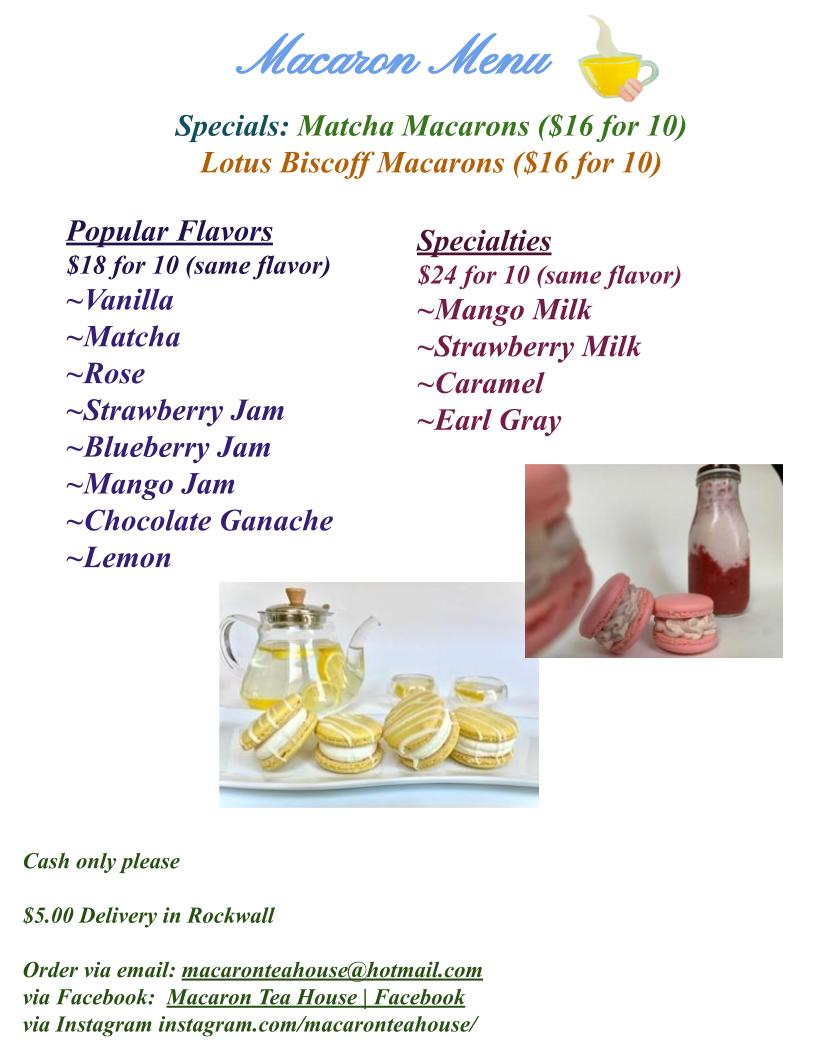
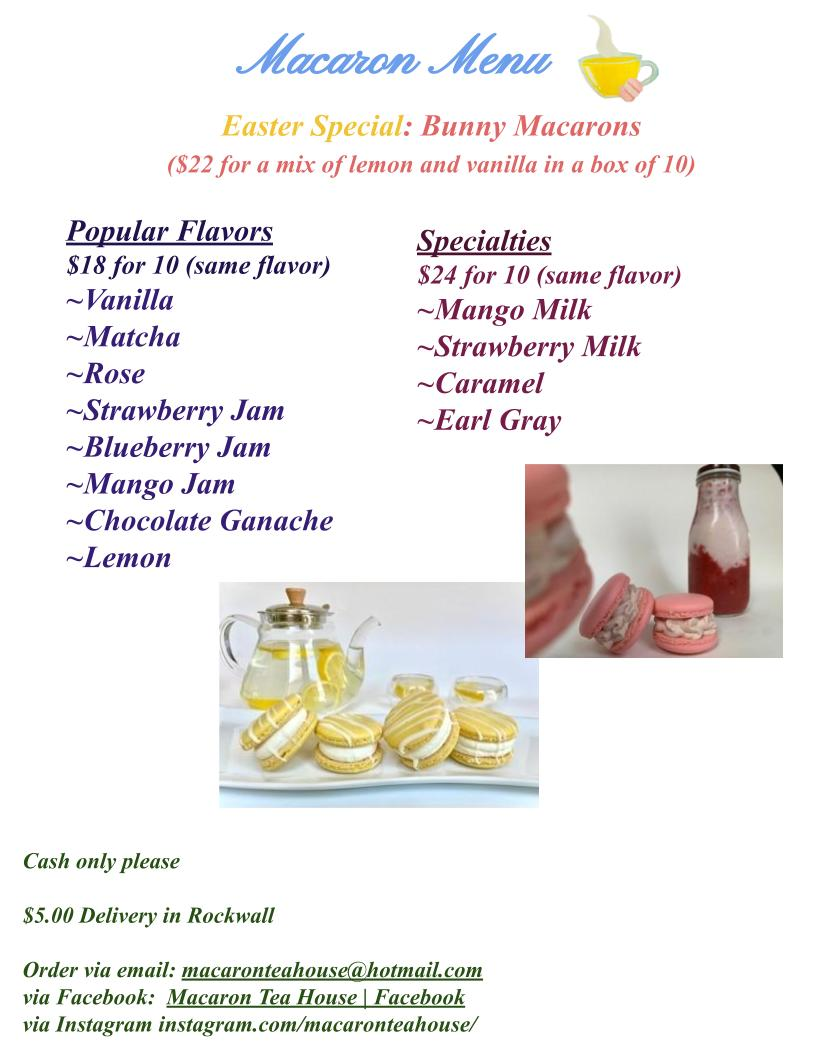
jhj

Changed region(s): [[0.2145, 0.0938, 0.8578, 0.1875]]

diff --git a/A_Special.html b/A_Special.html
@@ -63,17 +63,18 @@
 
 <body>
 <container id="title">
-	<h1> <p style="font-size:200%; width:100%"> <b> <i> Lotus Biscoff Macarons </b> </i> </p> </h1>
+	<h1> <p style="font-size:200%; width:100%"> <b> <i> Bunny Macarons </b> </i> </p> </h1>
 </container>
 <container id="info">
 	<div id="chocC">
 
-		<img src="Pictures/\biscoff.jpg" width="80%" height="auto">
+		<img src="Pictures/\bunny.jpg" width="80%" height="auto">
 	</div>
 	<div id="choc">
 
-		<p style="font-size:150%;color:#05b09f" width="100%" height="auto">Special: Lotus Biscoff Macarons This macaron has a distinct biscoff flavor.
-			It it soft on the inside but has a little crunch. It’s perfect with a cup of hot tea. $16 for a box of 10
+		<p style="font-size:150%;color:#05b09f" width="100%" height="auto">Easter Special: Bunny Macarons! This is the perfect treat for Easter! One box includes a mix of vanilla (pink) and lemon (yellow) macarons.
+			These adorable macarons are crunchy yet soft on the inside with delightfully spring-y flavors. (one box of 10 for $22) 
+
  </p>
 	</div>
 </container>
